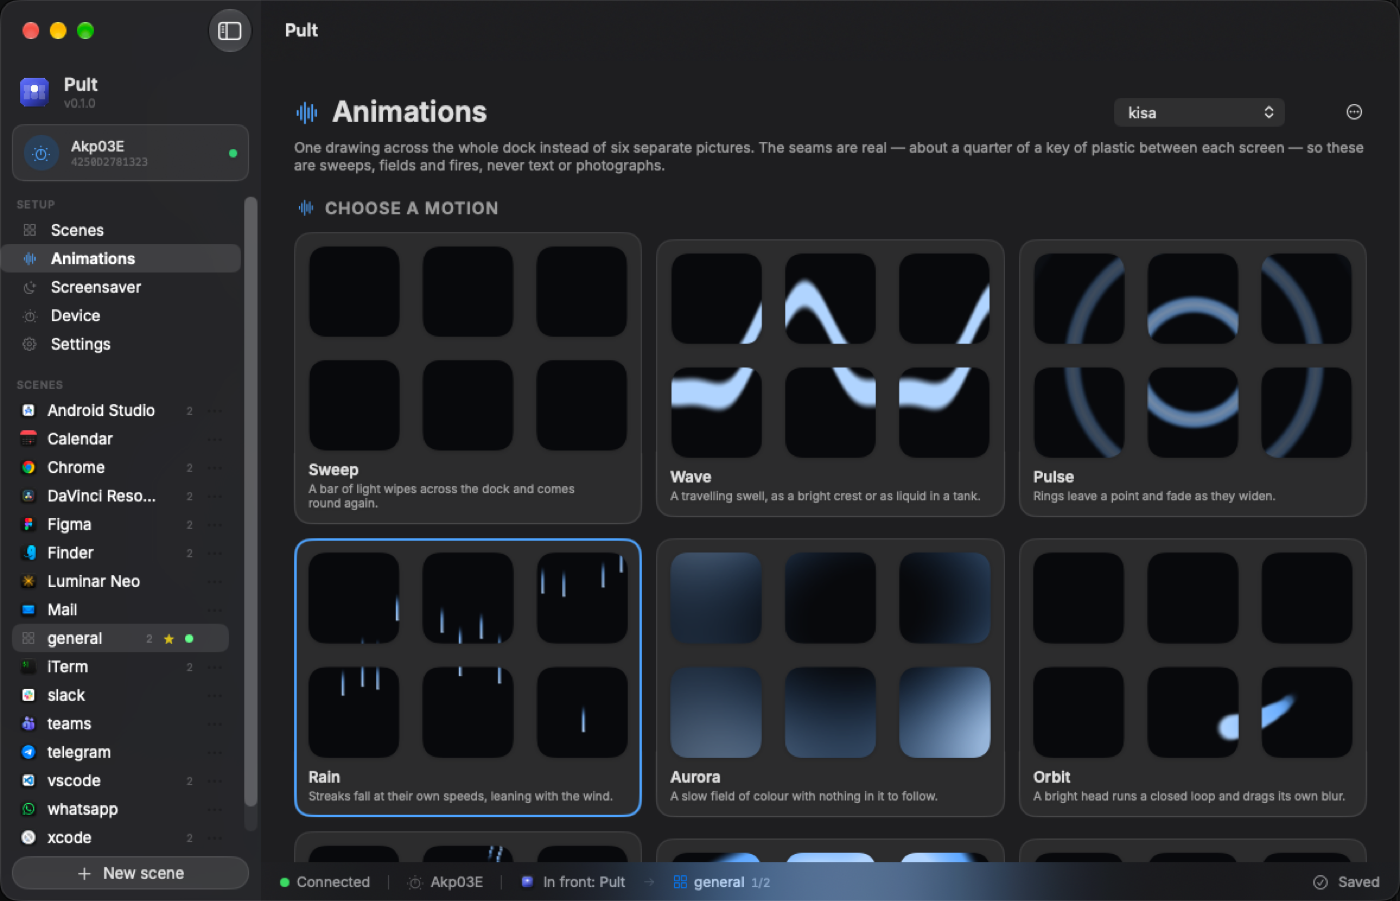
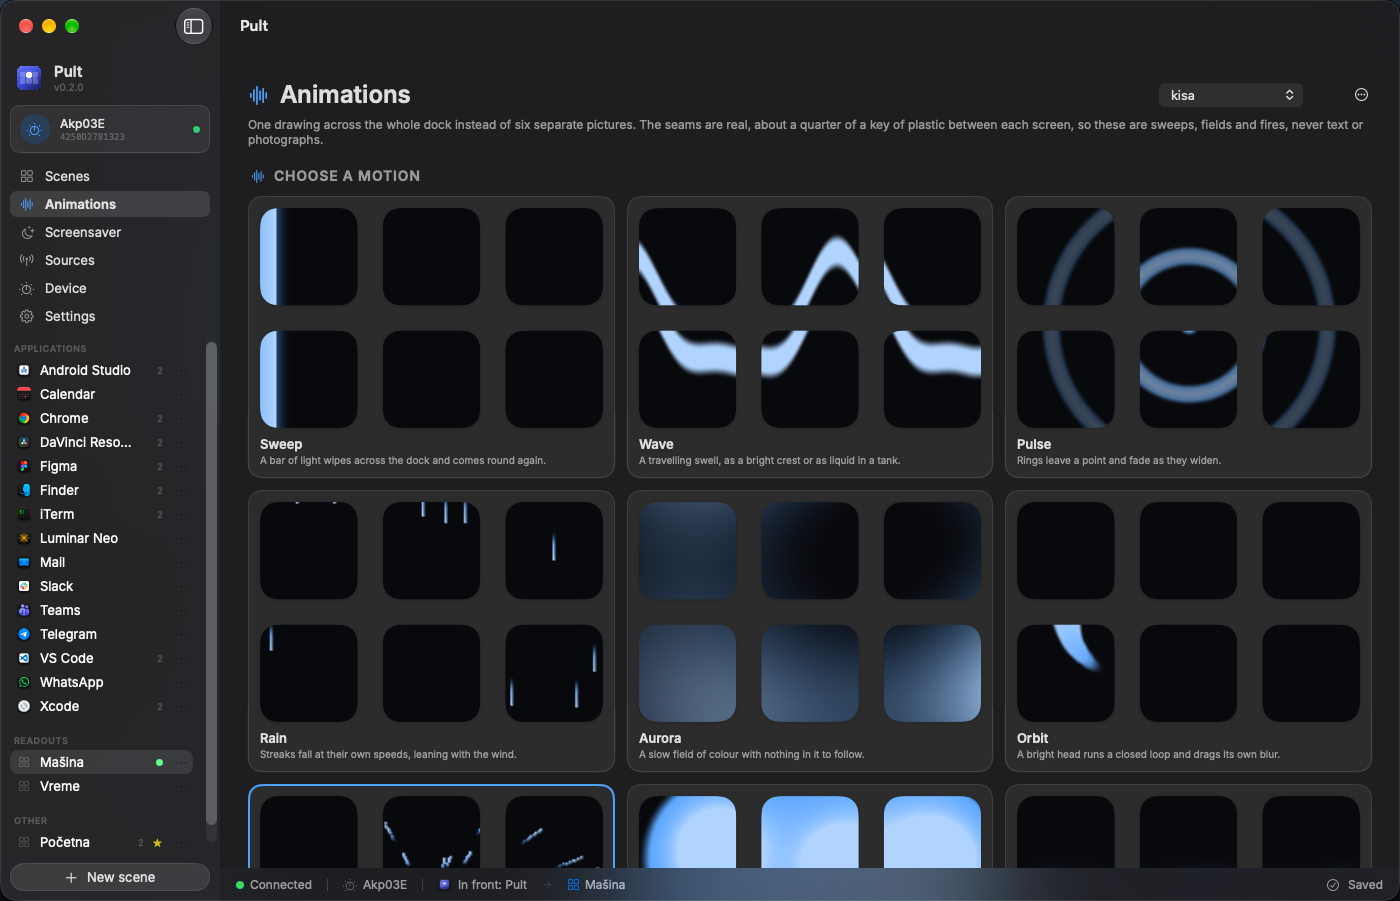
Rewrite the README around what the keys can now report
Every screenshot retaken: the interface has grown a pane, the sidebar now
groups scenes by what chooses them, and Settings has a control for what the
dock shows. All eight at 1400 px wide so the page keeps one rhythm.

Two of them are the dock itself, which the README had never shown. A
weather page and a machine page, with the real sixteen pixels of plastic
between the keys, because that gap is the one thing about this device a
flat rectangle cannot explain.

Live data moved up to sit beside the keys, where it belongs: it is a thing
a key does, not a feature at the end. It has sections of its own now for
the weather and for the machine, including why the machine page needs no
helper and no root, and why the calls that read the sensors run in a
process of their own.

`mute` joins the table of what a key can do, and the volume pictures the
dock draws are described where the keys are.

The screenshots are in English, including the captions on the dock, which
are Serbian in the shipped example. They were translated into a throwaway
copy of the configuration for the rendering; nothing in the repository or
on this machine changed to take them.

The coordinates in the Sources screenshot are a round 45.000, 20.000 and
resolve to a town nobody lives in. A README is a public page and a
latitude is a home address.

diff --git a/README.md b/README.md
@@ -1,13 +1,16 @@
 # Pult
 
 A macOS app for the **Ajazz AKP03E** stream dock. The six keys follow whatever
-application is in front, and everything about them is editable without touching
-a configuration file.
+application is in front, or hold still and report something: the weather, or
+what this Mac is doing to itself. Everything about them is editable without
+touching a configuration file.
 
 ![The scene editor](assets/readme/scenes.png)
 
 ```
 macOS frontmost app  →  bundle ID  →  scene  →  6 × JPEG 60×60 + an action table
+                                        ↑
+                        or one scene, pinned, reading a source
 ```
 
 The dock stores nothing but its boot logo. Every scene lives on your Mac and is
@@ -61,10 +64,89 @@ from the knobs alone.
 | `scene` | Switch the dock to another scene |
 | `page` | Turn to the next or previous page |
 | `volume` | Raise or lower the system volume |
+| `mute` | Silence the output, or let it speak again |
 | `hour` | Walk a scene of readings through its forecast |
 
 Every key is drawn by the daemon and sent as a finished picture, so what the
 editor shows is what the dock shows: the preview is the same renderer.
+
+Turning the volume fills the whole dock from the left for a moment, and muting
+it draws a speaker across all six screens, struck through. macOS only draws its
+own overlay for a real key press, which would mean asking for the right to send
+keystrokes and a round trip for every detent of a knob; this is where your hand
+already is.
+
+## Live data
+
+![The sources pane](assets/readme/sources.png)
+
+A key can show a number that comes from somewhere else instead of a label. A
+source fetches JSON on a schedule; the key reads it back through a template:
+
+```toml
+value   = "{weather.temp|round}°"
+caption = "feels {weather.feels|round}°"
+ramp    = { field = "weather.temp", stops = [[-5, "#1f6feb"], [24, "#9a6700"]] }
+```
+
+The number is drawn as large as it measures: three glyphs comfortably, five at
+a push, six never, which is why a per cent sign belongs in the caption. Digits
+are given a common advance so a reading going from 11 to 12 does not shift
+under your eye. A missing value is an em dash, never a zero.
+
+**Pressing a readout changes what it shows** rather than firing an action.
+`cycle` lists the other readings behind it, and a press repaints that one key,
+which is 1.2 ms. A knob bound to `hour` walks the whole scene through a
+forecast and lets go after twenty seconds, so a dock left hours ahead cannot
+quietly show the wrong weather.
+
+When a host goes quiet the last number stays, dimmed, with its age in place of
+its caption. An old temperature is still information; a blank key is not.
+Staleness is per source, because two hosts fail separately.
+
+The Sources pane shows each one as a row: whether it is answering, how long
+ago, how often it is asked, and every field it brought back with its current
+value. Click a field to copy the template that shows it. Each row also carries
+what can be changed while you are looking at the dock, which is the interval
+and the units; the address and the field mapping are the shape of the source
+and live in the file.
+
+### The weather
+
+![The weather on the dock](assets/readme/dock-weather.png)
+
+The shipped example builds a weather page from two open hosts that need no key
+and no account, about 3 KB a poll: temperature on a cold-to-hot ramp, the
+chance of rain, wind with the arrow turned to the bearing, the sky as a glyph,
+the time to the next sun event, and the air quality.
+
+They need to know where you are, and that does **not** go in the configuration
+file: the app round-trips that file, copies it to `.bak` on every save, and
+people paste it into bug reports. Coordinates live in `~/Library/Application
+Support/Pult/place.toml`, which the Sources pane writes for you, rounded to
+about a hundred metres. You can type them in and grant nothing, or let macOS
+answer once.
+
+### The machine
+
+![The machine on the dock](assets/readme/dock-machine.png)
+
+A second page reads the Mac itself: processor busy share, memory the way
+Activity Monitor counts it, battery, disk, uptime, and the temperature of the
+hottest die.
+
+None of it needs permission and none of it needs root. That was worth
+measuring rather than accepting: `powermetrics` does need root, the SMC has no
+public API, and the usual advice is to install a privileged helper. On Apple
+silicon the thermal sensors arrive as HID events that any process can read.
+
+The calls that read them are not public API, so `vitals` is a process of its
+own, spawned by a `kind = "shell"` source and gone again. If a future macOS
+moves them, the cost is one failed poll and a blank key, not a dock that stops
+answering.
+
+Because it reads the machine it runs on rather than somebody else's host, it
+can be asked every second.
 
 ## The device
 
@@ -113,42 +195,6 @@ the Mac sleeps.
 Nothing here keeps the Mac awake. The dock asks to paint one last frame before
 sleep and then lets go.
 
-## Live data
-
-A key can show a number that comes from somewhere else instead of a label. A
-feed fetches JSON on a schedule; the key reads it back through a template:
-
-```toml
-value   = "{vreme.temp|round}°"
-caption = "oseća {vreme.feels|round}°"
-ramp    = { field = "vreme.temp", stops = [[-5, "#1f6feb"], [24, "#9a6700"]] }
-```
-
-The number is drawn as large as it measures, three glyphs comfortably, five at
-a push, six never, which is why a per cent sign belongs in the caption. Digits
-are given a common advance so a reading going from 11 to 12 does not shift
-under your eye. A missing value is an em dash, never a zero.
-
-**Pressing a readout changes what it shows** rather than firing an action: `cycle`
-lists the other readings behind it, and a press repaints that one key. A knob
-bound to `hour` moves the whole scene through the forecast and lets go after
-twenty seconds, so a dock left hours ahead cannot quietly show the wrong
-weather.
-
-When a host goes quiet the last number stays, dimmed, with its age in place of
-its caption. An old temperature is still information; a blank key is not.
-
-The shipped example builds a weather page from two open hosts that need no key
-and no account, about 3 KB a poll. They need to know where you are, and that
-does **not** go in the configuration file: the app round-trips that file, copies
-it to `.bak` on every save, and people paste it into bug reports. Coordinates
-live in `~/Library/Application Support/Pult/place.toml`, which the Feeds pane
-writes for you, rounded to about a hundred metres.
-
-The Feeds pane shows each source as a row, whether it is answering, how long
-ago, and every field it brought back with its current value. Clicking a field
-copies the template that shows it.
-
 ## Settings
 
 ![Settings](assets/readme/settings.png)
@@ -156,6 +202,11 @@ copies the template that shows it.
 Light, dark or follow the system. **English or Serbian**, switched live. A text
 size that scales the whole interface, not just the labels. How often the
 frontmost application is checked, and whether a press flashes on screen.
+
+**What the dock shows**: normally it follows whichever application is in front,
+but it can be pinned to one scene whatever you are doing, which is what the
+weather and the machine pages are for. The screensaver is a separate question
+and still applies.
 
 The background service can be restarted, stopped, set to start at login, or
 repaired if the app has been moved. The configuration can be revealed, exported
